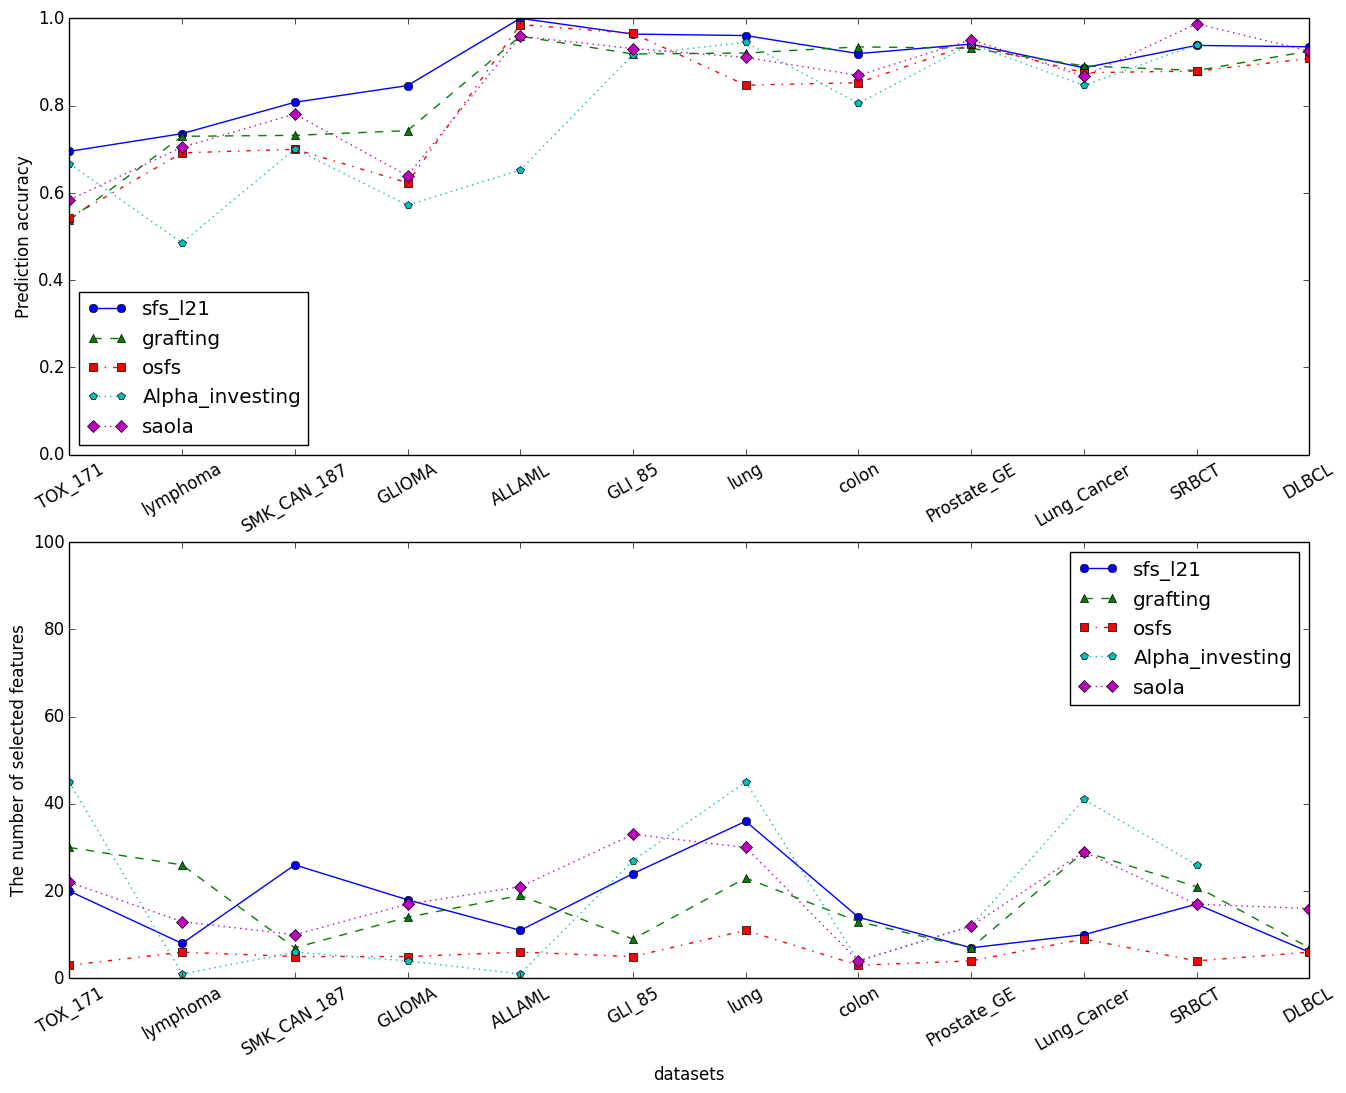
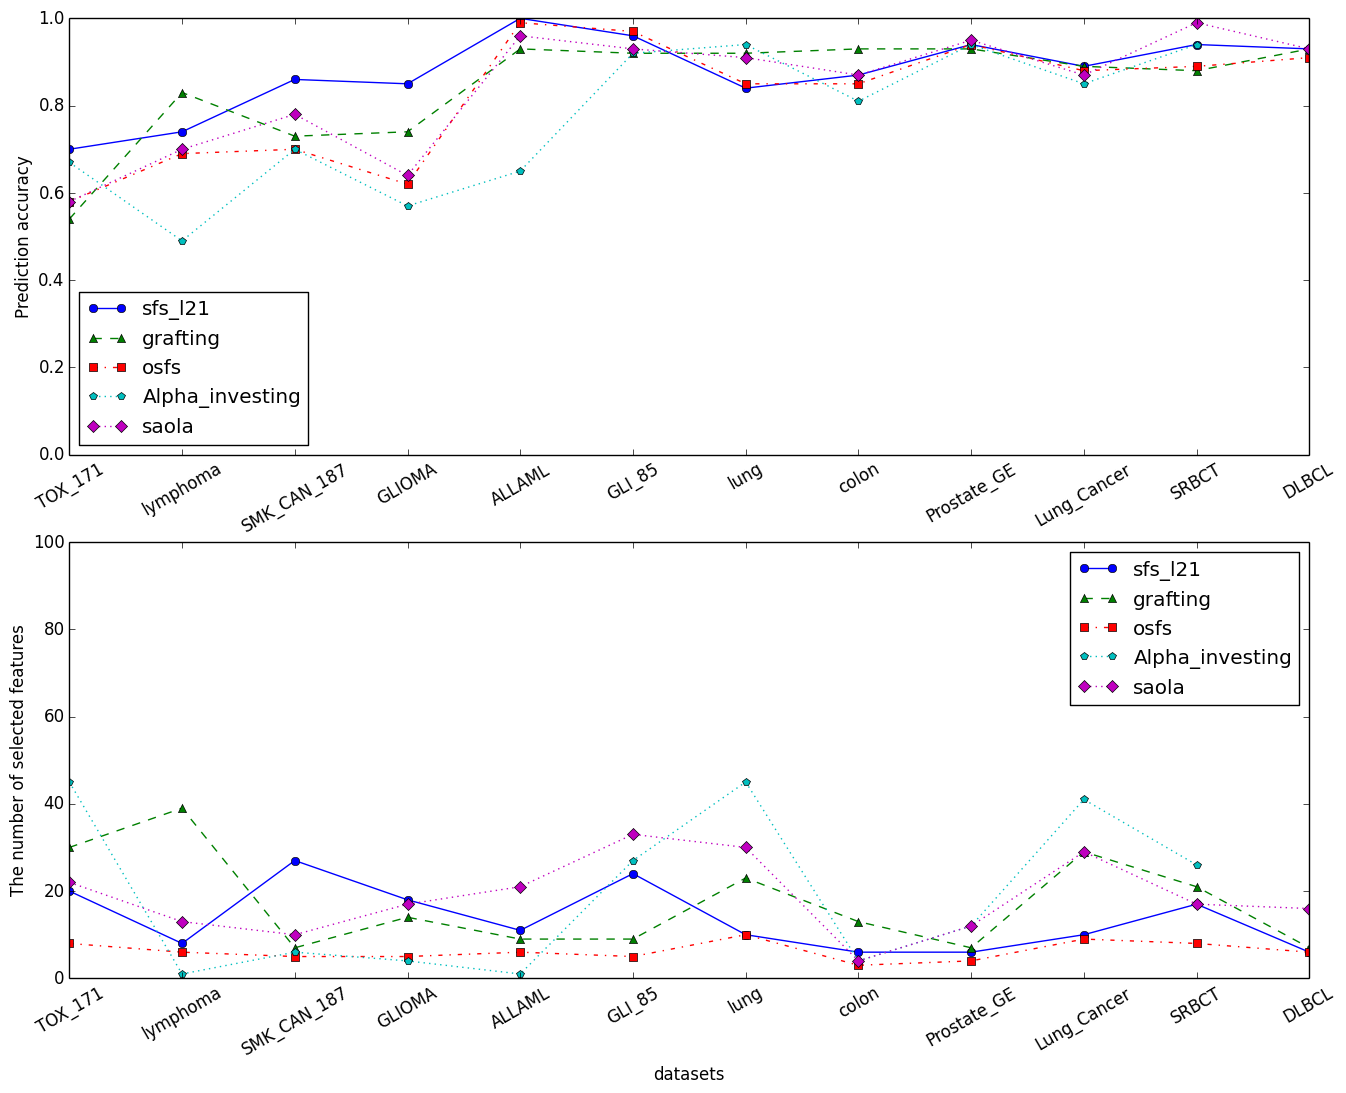
repaint gene/all_result/streaming/

diff --git a/datas/gene/all_result/streaming/draw_streaming.py b/datas/gene/all_result/streaming/draw_streaming.py
@@ -1,6 +1,15 @@
 import pandas as pd
 import matplotlib.pyplot as plt
 
+
+def get_datasets_name():
+    datasets_name = []
+    with open('../../datasets_order.txt', 'r') as f:
+        for line in f:
+            datasets_name.append(line.strip())
+    return datasets_name
+
+
 def read_output_streaming_cls_nfs(fname):
     res_cls = pd.Series(())
     res_nfs = pd.Series(())
@@ -14,9 +23,10 @@ def read_output_streaming_cls_nfs(fname):
                 res_cls[epsilon] = float(line_list[-1])
             if line_list[0] == 'size' and line_list[2] == 'data':
                 res_nfs[epsilon] = int(line_list[-1][:-1])
-    res_cls.name = 'prediction accuracy'
-    res_nfs.name = 'number of selected features'
+    res_cls.name = 'Prediction accuracy'
+    res_nfs.name = 'The number of selected features'
     return res_cls.drop(0.0), res_nfs.drop(0.0)
+
 
 def read_output_streaming(fname):
     cls = pd.Series(())
@@ -31,67 +41,48 @@ def read_output_streaming(fname):
     # cls.name = 'prediction accuracy'
     return cls.drop('1000')
 
+
 def read_output_streaming_of_one_dataset(dataset_name):
     alg = "sfs_l21"
-    cls_l21 = read_output_streaming("../streaming_l21/%s_cls.output_streaming"%dataset_name)
+    cls_l21 = read_output_streaming(
+        "../streaming_l21/%s_cls.output_streaming" % dataset_name)
     cls_l21.name = alg
     cls = cls_l21
 
     algs = "grafting osfs Alpha_investing saola".split()
     for alg in algs:
-        fname = "../streaming_%s/%s_cls.output_streaming_%s"%(alg, dataset_name, alg)
+        fname = "../streaming_%s/%s_cls.output_streaming" % (
+            alg, dataset_name)
         cls_tmp = read_output_streaming(fname)
         cls_tmp.name = alg
         cls = pd.concat((cls, cls_tmp), axis=1)
-
-#     alg = "grafting"
-#     cls_grafting = read_output_streaming("../streaming_%s/%s_cls.output_streaming_%s"%(alg, dataset_name, alg))
-#     cls_grafting.name = alg
-
-#     alg = "osfs"
-#     cls_osfs = read_output_streaming("../streaming_%s/%s_cls.output_streaming_%s"%(alg, dataset_name, alg))
-#     cls_osfs.name = alg
-
-#     alg = "Alpha_investing"
-#     cls_Alpha_investing = read_output_streaming("../streaming_%s/%s_cls.output_streaming_%s"%(alg, dataset_name, alg))
-#     cls_Alpha_investing.name = alg
-
-    # cls = pd.concat((cls_l21, cls_grafting, cls_osfs, cls_Alpha_investing), axis=1)
     return cls
-    
+
+
 def draw(cls, fname):
     fig, ax = plt.subplots(1, 1)
-    style='o- ^-- s-. p: D:'.split(' ')
+    style = 'o- ^-- s-. p: D:'.split(' ')
     cls.plot(ax=ax, style=style, ylim=(0.4, 1.0))
-    #nfs.plot(ax=axes[1], style='*-', ylim=(0, 90))
+    # nfs.plot(ax=axes[1], style='*-', ylim=(0, 90))
     ax.set_ylabel('Prediction accuracy')
     ax.set_xlabel('The percentage of features streaming in (%)')
     ax.set_title(fname)
 
-    # fig.set_size_inches(12, 8)
-    fig.set_size_inches(6, 4)
-    fig.savefig('new/%s.png'%fname, bbox_inches='tight')
+    fig.set_size_inches(12, 8)
+    fig.savefig('%s.png' % fname, bbox_inches='tight')
     plt.close()
 
-def get_datasets_name():
-    datasets_name = []
-    with open('../all_attribute.csv', 'r') as f:
-        f.readline()
-        for line in f:
-            datasets_name.append(line.split(',')[0])
-    return datasets_name
 
 def main():
     datasets_name = get_datasets_name()
     for dataset_name in datasets_name:
-        print "draw %s"%dataset_name
+        print "draw %s" % dataset_name
         cls = read_output_streaming_of_one_dataset(dataset_name)
-        cls.to_csv("new/%s.csv"%dataset_name)
+        cls.to_csv("csvs/%s.csv" % dataset_name)
         draw(cls, dataset_name)
-        print "finish %s"%dataset_name
+        print "finish %s" % dataset_name
 
 
 if __name__ == '__main__':
     main()
     print "Done!"
-    

diff --git a/datas/gene/draw.py b/datas/gene/draw.py
@@ -36,7 +36,7 @@ def draw_sfs_l21_vs_other(cls, nfs, write_to_folder):
     style1 = 'bo- gs--'.split()
     style2 = 'b^- g*--'.split()
     cls.plot(ax=ax1, style=style1, ylim=(0.0, 1.0), rot=30)
-    nfs.plot(ax=ax2, style=style2, ylim=(0, 200))  # , kind='bar')
+    nfs.plot(ax=ax2, style=style2, ylim=(0, 100))  # , kind='bar')
     plt.xlabel("datasets")
     fig.set_size_inches(12, 8)
     ax1.legend(loc="upper left")
@@ -112,7 +112,7 @@ def draw_compactness(nfs):
 def main(from_folder):
     clses, nfses = get_cls_nfs(from_folder)
     draw_vs_others(clses, nfses, from_folder)
-    # draw(clses, nfses, "all", from_folder)
+    draw(clses, nfses, "all", from_folder)
     # print nfses
     # draw_compactness(nfses)
 
